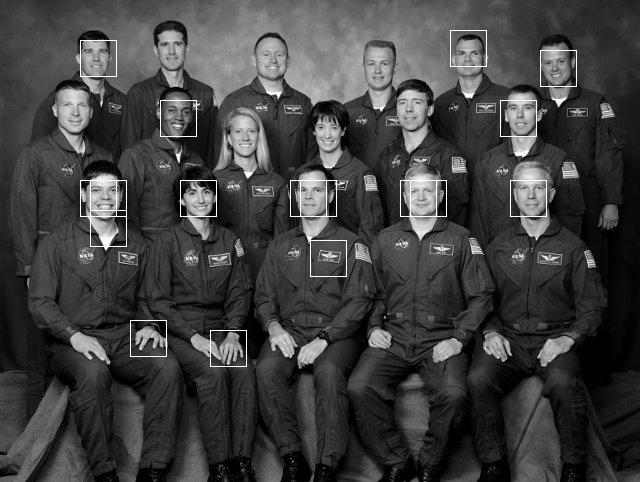
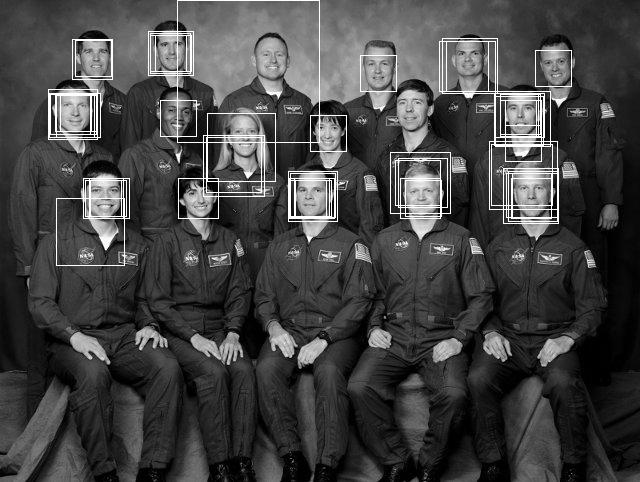
tune paramaters

diff --git a/detect_faces.py b/detect_faces.py
@@ -3,39 +3,61 @@ import numpy as np
 import caffe
 import skimage.io
 import skimage.draw
+import skimage.transform
 import matplotlib.pyplot as pyplot
 
 #TODO: command-line interface
+#TODO: resize too big picture at the begining (too long for high quality)
 
-step = 10
+
+#the step for the window
+step = 5
 width_image_network = 36
 heigh_image_network = 36
+resize_factor = 0.90
+detection_min = 0.994
 
 image = caffe.io.load_image('/datas/merica.jpg', color=False)
 
-#the step for the window
-faces_positions = []
+def slide_window(image, number_resize):
+    faces_positions = []
 
-#TODO: take care if the image is smaller than 36*36
-for j in range((image.shape[1] - heigh_image_network) / step):
-    for i in range((image.shape[0] - width_image_network) / step):
-        if(is_face(image[i*step:i*step+width_image_network,j*step:j*step+heigh_image_network,:]) > 0.97):
-            faces_positions.append((i*step,j*step))
+    #take care if the image is smaller than 36*36
+    for j in range((image.shape[1] - heigh_image_network) / step):
+        for i in range((image.shape[0] - width_image_network) / step):
+            if(is_face(image[i*step:i*step+width_image_network,j*step:j*step+heigh_image_network,:]) > detection_min):
+                faces_positions.append((i*step/resize_factor**number_resize,j*step/(resize_factor**number_resize), number_resize))
+
+    return faces_positions
 
 #we make a deep copy of the image to not alterate the source
 image_copy = image[...]
+faces_positions = []
+count_resize = 0
+
+while(image_copy.shape[0] >= 36 and image_copy.shape[1] >= 36):
+    faces_positions += slide_window(image_copy, count_resize)
+
+    output_shape = (int(image_copy.shape[0]*resize_factor), int(image_copy.shape[1]*resize_factor))
+    image_copy = skimage.transform.resize(image_copy,output_shape)
+    count_resize += 1
+
+
 
 #we draw shapes where we detected faces
 
-for i,j in faces_positions:
-    row_coordinates = np.array([i, i+width_image_network, i+width_image_network, i])
-    col_coordinates = np.array([j, j, j+heigh_image_network, j+heigh_image_network])
+for i,j,number_resize in faces_positions:
+    resize_square_factor = 1/(resize_factor**number_resize)
+
+    row_coordinates = np.array([i, i+width_image_network*resize_square_factor, i+width_image_network*resize_square_factor, i])
+    col_coordinates = np.array([j, j, j+heigh_image_network*resize_square_factor, j+heigh_image_network*resize_square_factor])
+
 
     #we get the coordinates of the square, and we display a white square on the image
     rr, cc = skimage.draw.polygon_perimeter(row_coordinates, col_coordinates)
-    image_copy[rr,cc,:] = 1
+    image[rr,cc,:] = 1
 
 #we save the image, and delete the last dimension (W*H for images with no colors)
-skimage.io.imsave('/datas/output.jpg', np.squeeze(image_copy, axis=(2,)))
+skimage.io.imsave('/datas/output.jpg', np.squeeze(image, axis=(2,)))
 
 print faces_positions

diff --git a/is_face.py b/is_face.py
@@ -1,5 +1,6 @@
 import os
 
+#to not display shell outpu from caffe
 os.environ['GLOG_minloglevel'] = '2'
 import caffe
 import numpy as np
